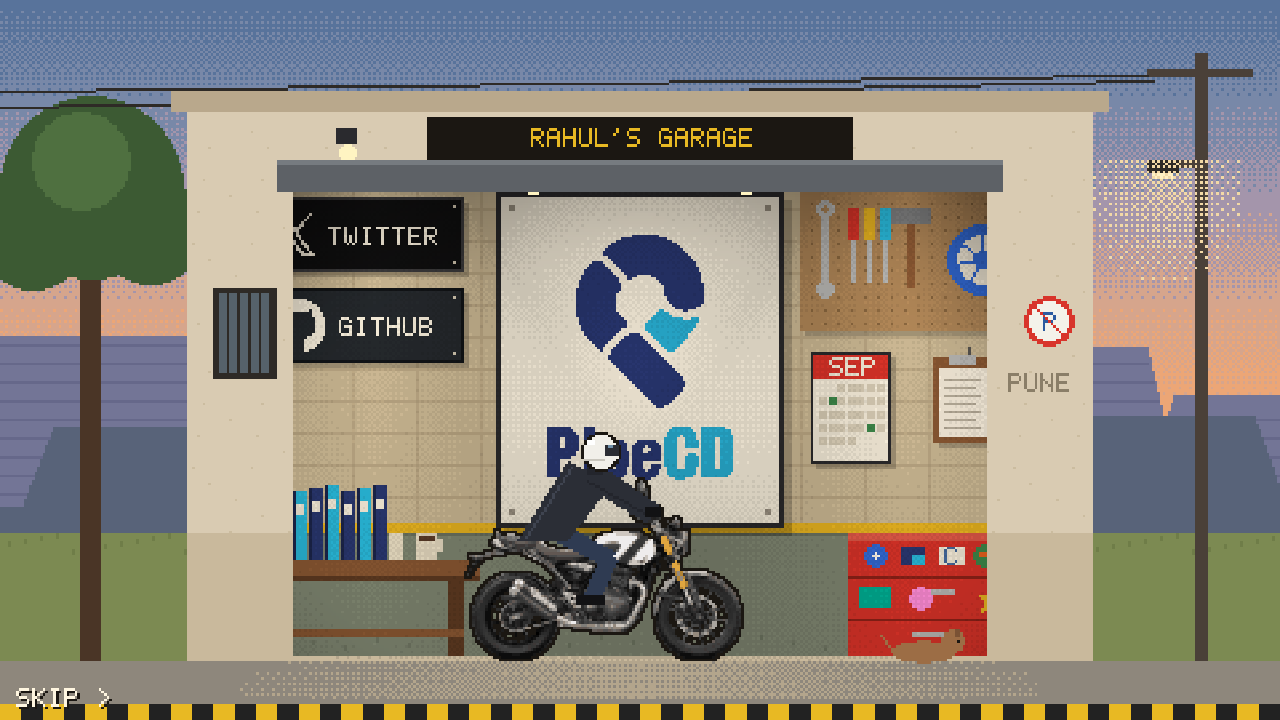
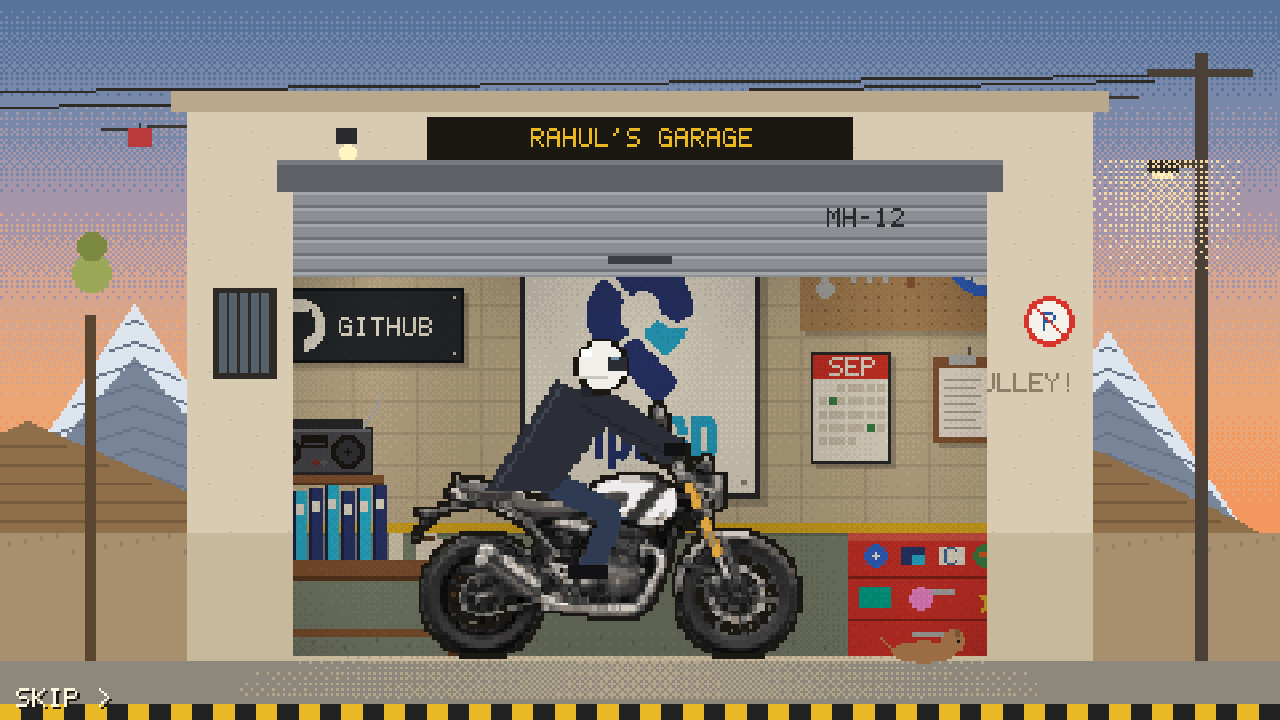
docs: refresh screenshots, share image and readme for the new garage

diff --git a/src/game/scenes/garage.ts b/src/game/scenes/garage.ts
@@ -54,6 +54,7 @@ export class GarageScene implements Scene {
   private bikeHalo?: Sprite;
   private touch = matchMedia('(pointer: coarse)').matches;
   private reduced = matchMedia('(prefers-reduced-motion: reduce)').matches;
+  private og = new URLSearchParams(location.search).has('og'); // ?og: no counter, for the share image
   // dust drifting through the tube-light beams: fixed seeds, so it looks the same every visit
   private motes = Array.from({ length: 28 }, (_, i) => ({ x: TUBES[i % 2] + ((i * 37) % 70) - 35, y: 24 + ((i * 53) % 166), k: i }));
 
@@ -497,6 +498,7 @@ export class GarageScene implements Scene {
   }
 
   private counter() {
+    if (this.og) return;
     const total = HOTSPOTS.length + CONTROLS.length, n = countFound(this.found, [...HOTSPOTS, ...CONTROLS].map((h) => h.id));
     const s = `FOUND ${n}/${total}`;
     text(s, 474 - textW(s), 5, n === total ? C.accent : '#a89d8b');

diff --git a/src/game/main.ts b/src/game/main.ts
@@ -72,7 +72,8 @@ document.getElementById('phone-term')?.addEventListener('click', () => terminal.
 async function garage() {
   const img = await images;
   const scene = new GarageScene(screen, img);
-  scene.night = loadNight() ?? isNightHour(new Date().getHours()); // until they pull the cord, the room follows their clock
+  const q = new URLSearchParams(location.search); // ?night and ?day force the lights (handy for screenshots)
+  scene.night = q.has('night') ? true : q.has('day') ? false : loadNight() ?? isNightHour(new Date().getHours()); // until they pull the cord, the room follows their clock
   scene.tried = tried;
   scene.found = found;
   scene.radioOn = radio.on;

diff --git a/README.md b/README.md
@@ -1,17 +1,24 @@
 # Rahul Shendre
 
-Personal site. A pixel-art ride on a Pearl White Scrambler 400X from the Pune outskirts, over the open highway and up through the Sahyadri ghats and a tunnel, to a garage where every object links to real work.
+Personal site, built as a pixel-art garage. You arrive on a white Scrambler 400X, the roller door lifts, and every object in the garage opens a real part of the site: work, open source, videos, writing, about, resume. The ride down a highway to Ladakh is one click away.
 
 ![Garage](docs/screenshots/10-garage.png)
 
-More screenshots in `docs/screenshots/`. Build notes in `docs/MORNING-REPORT.md`.
+More screenshots in `docs/screenshots/` (door, night with the bike lit, the TV terminal, a section panel). Build notes in `docs/MORNING-REPORT.md`. The `v1` git tag marks the first version of this garage.
+
+## In the garage
+
+- Point at anything: it glows. Click: sections open in a panel over the garage (Esc or Back closes it, "Full page" opens the plain page). Outside links open in a new tab.
+- The CRT TV is a terminal (`help`, `about`, `pipecd`, `open builds`, `night`, `radio`, `ride`). `/` or `` ` `` opens it from anywhere.
+- Pull the cord for lights on or off. It follows the visitor's clock (dark from 7pm to 6am) until they choose, and remembers the choice.
+- Click the radio for lo-fi (off by default). Pet the cat. A counter on the ceiling beam tracks what you have found.
+- Everything is also a plain link: no JavaScript, Ctrl-click and screen readers all work. "List view" is the one-page version.
 
 ## Controls
 
-- Any key or tap: start the ride. `S` / Esc or SKIP: straight to the garage.
-- Arrow keys, A/D or tapping screen halves: steer (or let the autopilot ride and overtake).
-- `V`, `1` `2` `3` or the camera icon: behind, rider POV, top-down. `M` or the speaker icon: engine sound.
-- `/?ride` forces the ride, `/?garage` skips it, `/?door` shows only the door, `/?ride&at=700` starts at a road segment, `/?ride&og` is the share-image title.
+- Door scene: any key or tap skips it. It plays once per browser tab session, then links back to `/` go straight to the garage.
+- Ride (the "ride again" button): any key or tap starts it. `S` / Esc or SKIP: straight to the garage. Arrow keys, A/D or tapping screen halves steer (or let the autopilot ride). `V`, `1` `2` `3` or the camera icon: behind, rider POV, top-down. `M` or the speaker icon: engine sound.
+- URLs: `/?ride` forces the ride, `/?garage` skips the door, `/?door` shows only the door, `/?night` and `/?day` force the lights, `/#terminal` opens the terminal, `/#p=%2Fopen-source` opens a section panel, `/?ride&at=700` starts at a road segment, `/?garage&og` hides the counter (share image).
 
 ## Run it
 
@@ -30,5 +37,6 @@ Needs Node 20+ (Astro 5). Astro 7 needs Node 22, so upgrade Node before upgradin
 - `src/content/notes/` writing. Copy `_template.md`, drop the underscore.
 - `src/data/site.ts` name, links, bike, TODOs.
 - `src/data/github.json` GitHub snapshot. Refresh with `pnpm snapshot` (needs `gh auth login`).
-- `src/game/` the canvas game: ride, door, garage.
+- `src/game/` the canvas game: door, garage, ride. `terminal.ts` (TV commands), `panel.ts` (section panels), `hints.ts` (bottom-bar messages), `state.ts` (what the visitor has seen and found).
+- `public/og.png` the share image: a top-aligned 1200x630 crop of `/?garage&day&og` at 1280x720.
 - `tools/pixelate.py` turns a photo into a pixel sprite (see tools/README.md).
